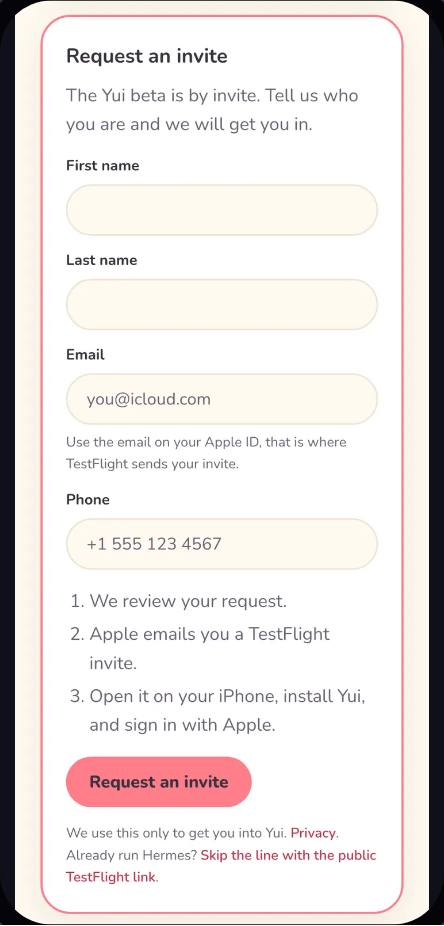
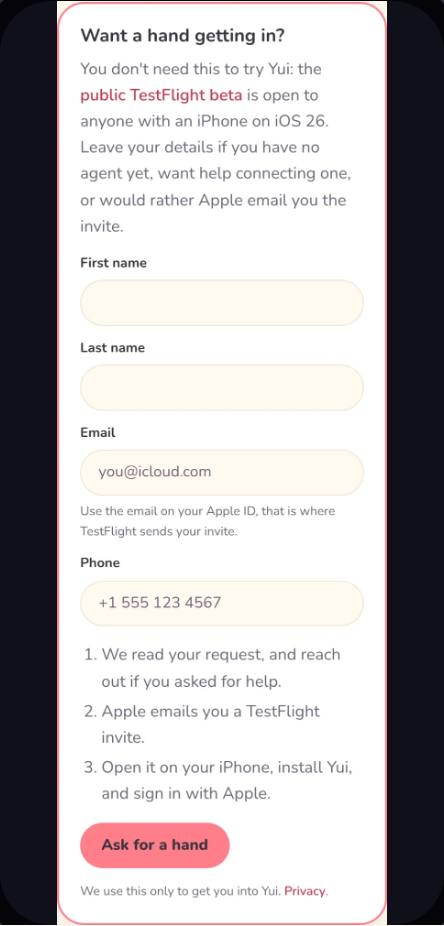
The site says it plainly: Yui is in public beta
Every call to action leads with the public TestFlight beta. The band at the
bottom of every page is "Get the public beta" with Connect your agent, the home
page eyebrow says Public beta on TestFlight, and Get Yui says anyone with an
iPhone on iOS 26 can join.

The invite form stays, renamed Ask for a hand: for people with no agent yet,
who want help connecting one, or who would rather Apple email them the
invite. No more "the beta is by invite" or "skip the line". Same fields, same
backend. Privacy, See it (new screenshots and share card), the ship log, the
roadmap (the planned private beta is done: the public link replaced it) and
the business docs say the same.

diff --git a/site/app/components/InviteRequest.js b/site/app/components/InviteRequest.js
@@ -3,8 +3,9 @@ import { useState } from "react";
 import links from "../../content/links.json";
 import { savedUtm, trackCta } from "../../lib/track.mjs";
 
-// Request an invite (SITE-26). Replaces the waitlist: the row lands in yui_invites as requested,
-// Chris reviews it, and Apple sends the TestFlight email to the address given here.
+// Ask for a hand (SITE-26). The beta is public on TestFlight, so this form is the other way in: for people
+// with no agent yet, who want help connecting one, or who want the invite by email. The row lands in
+// yui_invites as requested, Chris reviews it, and Apple sends the TestFlight email to the address given here.
 export default function InviteRequest({ source = "home" }) {
   const [state, setState] = useState("idle");
   const [error, setError] = useState("");
@@ -33,7 +34,8 @@ export default function InviteRequest({ source = "home" }) {
     return (
       <div id="invite" className="card invite" role="status">
         <h3>Request in. Thank you!</h3>
-        <p>We read every request. When you are in, Apple emails you a TestFlight invite. Open it on your iPhone, install Yui, and sign in with Apple.</p>
+        <p>We read every request. Apple emails a TestFlight invite to the address you gave. You don&apos;t have to wait for it: the public beta is open now.</p>
+        {links.testflight && <p style={{ marginTop: 12 }}><a className="btn" href={links.testflight} onClick={() => trackCta("testflight", `${source}:invite-done`)}>Get the TestFlight beta</a></p>}
       </div>
     );
   }
@@ -41,8 +43,13 @@ export default function InviteRequest({ source = "home" }) {
   return (
     <form id="invite" className="card invite" onSubmit={submit}>
       <span id="waitlist" />
-      <h3>Request an invite</h3>
-      <p>The Yui beta is by invite. Tell us who you are and we will get you in.</p>
+      <h3>Want a hand getting in?</h3>
+      <p>
+        You don&apos;t need this to try Yui: the{" "}
+        {links.testflight ? <a href={links.testflight} onClick={() => trackCta("testflight", `${source}:invite`)}>public TestFlight beta</a> : "public TestFlight beta"}{" "}
+        is open to anyone with an iPhone on iOS 26. Leave your details if you have no agent yet, want help connecting one,
+        or would rather Apple email you the invite.
+      </p>
       <div className="inv-grid">
         <label>First name<input name="first_name" required autoComplete="given-name" maxLength={80} /></label>
         <label>Last name<input name="last_name" required autoComplete="family-name" maxLength={80} /></label>
@@ -55,15 +62,14 @@ export default function InviteRequest({ source = "home" }) {
         <input name="website" tabIndex={-1} autoComplete="off" aria-hidden="true" className="wl-hp" />
       </div>
       <ol className="inv-next">
-        <li>We review your request.</li>
+        <li>We read your request, and reach out if you asked for help.</li>
         <li>Apple emails you a TestFlight invite.</li>
         <li>Open it on your iPhone, install Yui, and sign in with Apple.</li>
       </ol>
-      <button className="btn" disabled={state === "sending"}>{state === "sending" ? "Sending..." : "Request an invite"}</button>
+      <button className="btn" disabled={state === "sending"}>{state === "sending" ? "Sending..." : "Ask for a hand"}</button>
       {error && <p className="wl-err">{error}</p>}
       <p className="inv-fine">
         We use this only to get you into Yui. <a href="/privacy#invites">Privacy</a>.
-        {links.testflight && <> Already run Hermes? <a href={links.testflight} onClick={() => trackCta("testflight", `${source}:invite`)}>Skip the line with the public TestFlight link</a>.</>}
       </p>
     </form>
   );

diff --git a/site/app/privacy/page.js b/site/app/privacy/page.js
@@ -33,17 +33,18 @@ export default function Privacy() {
     <>
       <div className="eyebrow">Privacy</div>
       <h1>What Yui keeps, and how to delete it.</h1>
-      <p style={{ color: "var(--muted)" }}>Last updated September 24, 2026.</p>
+      <p style={{ color: "var(--muted)" }}>Last updated September 26, 2026.</p>
 
       <h2 id="invites">Invites</h2>
       <p>
-        Yui&apos;s beta is by invite. When you ask for one, or we invite you, we store your first and last name, the
+        Yui&apos;s beta is public on TestFlight. You can also ask us for an invite, or for a hand getting set up, with the
+        form at the bottom of each page. When you do, or we invite you, we store your first and last name, the
         email you give us (the one on your Apple ID, because that is where TestFlight sends the invite), your phone
         number, which page and link brought you, your browser type, and where your invite stands: requested, approved,
         invited, claimed or declined. Nobody but Yui&apos;s server can read that table.
       </p>
       <ul>
-        <li>We use it only to review your request and get you into Yui. Your phone number is for reaching you about your invite, never for marketing.</li>
+        <li>We use it only to review your request and get you into Yui. Your phone number is for reaching you about your request, never for marketing.</li>
         <li>When we approve you, we send your name and email to Apple, which adds you to Yui&apos;s TestFlight beta and emails you the invite. We send no email of our own.</li>
         <li>Your invite also carries a one-time code for a link like yuigui.com/i/&hellip;. We keep only a scrambled (hashed) form of it. It works once.</li>
         <li>When you first sign in to the app, Yui matches your invite by that email, or by the code if you hid your email, and links it to your account.</li>
@@ -151,7 +152,7 @@ export default function Privacy() {
       <h2>This website</h2>
       <p>
         yuigui.com uses Google Analytics to count visits. It never sees an invite code: an invite link is counted as
-        yuigui.com/i/ without it. The request-an-invite form writes to the <code>yui_invites</code> table, described under Invites above. The old
+        yuigui.com/i/ without it. The form at the bottom of each page writes to the <code>yui_invites</code> table, described under Invites above. The old
         waitlist (<code>yui_waitlist</code>) is closed, and its entries became invite requests. To be removed, email us.
       </p>
     </>

diff --git a/site/app/components/GetYui.js b/site/app/components/GetYui.js
@@ -7,7 +7,7 @@ import { keepUtm, trackCta } from "../../lib/track.mjs";
 import CtaLink from "./CtaLink";
 import InviteRequest from "./InviteRequest";
 
-// The ways in, at the bottom of every page: the beta, the code, lending your agent (SITE-24), requesting an invite (SITE-26).
+// The ways in, at the bottom of every page: the public beta, the code, lending your agent (SITE-24), and asking for a hand (SITE-26).
 export default function GetYui() {
   const where = usePathname() || "/";
   useEffect(keepUtm, []);
@@ -16,11 +16,14 @@ export default function GetYui() {
       <h2 id="getyui-h">Try Yui, or help build it</h2>
       <div className="getyui-grid">
         <div className="card">
-          <h3>Already run Hermes?</h3>
+          <h3>Get the public beta</h3>
           {links.testflight ? (
             <>
-              <p>Install Yui from the public TestFlight link and pair it with Hermes on your own computer. New to agents? Request an invite below.</p>
-              <CtaLink cta="testflight" where={where} href={links.testflight}>Get the TestFlight beta</CtaLink>
+              <p>Yui is in public beta on TestFlight for iPhone on iOS 26. Install it, then connect the agent you already run: Hermes, OpenClaw, Claude Code, a model you run, or anything behind a webhook.</p>
+              <div className="cta">
+                <CtaLink cta="testflight" where={where} href={links.testflight}>Get the TestFlight beta</CtaLink>
+                <Link className="btn soft" href="/start" onClick={() => trackCta("start", where)}>Connect your agent</Link>
+              </div>
             </>
           ) : (
             <p>The public beta is waiting on Apple&rsquo;s review. It will need Hermes running on your own computer. Request an invite below and we will get you in.</p>

diff --git a/site/app/start/page.js b/site/app/start/page.js
@@ -105,11 +105,11 @@ export default function Start() {
             {links.testflight ? (
               <>
                 <p>
-                  Yui is in public beta on TestFlight, listed as <strong>Yui Gui</strong>. You need an iPhone on iOS 26. Open the
-                  invite, install, then sign in with Apple.
+                  Yui is in public beta on TestFlight, listed as <strong>Yui Gui</strong>. Anyone with an iPhone on iOS 26 can join:
+                  open the public link, install, then sign in with Apple.
                 </p>
-                <p><a className="btn start-tf" href={links.testflight}>Open the TestFlight invite</a></p>
-                <p>No Hermes yet, or want us to set you up? <a href="#invite">Request an invite</a> at the bottom of this page.</p>
+                <p><a className="btn start-tf" href={links.testflight}>Get the TestFlight beta</a></p>
+                <p>No agent yet, or want us to set you up? <a href="#invite">Ask for a hand</a> at the bottom of this page.</p>
               </>
             ) : (
               <p>The iPhone beta is waiting on Apple&rsquo;s review. Request an invite at the bottom of this page and we will get you in.</p>

diff --git a/site/app/page.js b/site/app/page.js
@@ -51,7 +51,7 @@ export default function Home() {
     <>
       <section className="hero">
         <div>
-          <div className="eyebrow">Built in public | open source</div>
+          <div className="eyebrow">Public beta on TestFlight | built in public | open source</div>
           <h1>Meet Yui, a generative user interface.</h1>
           <p className="lede">
             Your agent draws the screen instead of replying in walls of text: a timer, a form, a quick choice.

diff --git a/docs/business/BIZ-3-revenue-models.md b/docs/business/BIZ-3-revenue-models.md
@@ -61,7 +61,7 @@ Each model: what it is, comparables with sources, rough numbers, pros, cons, wha
 **Pros:** the largest market (people with no agent). Predictable revenue. Matches Chris's end-state vision.
 **Cons:** the only model with real inference risk. Competes on price with $8 to $20 general chatbots that have far bigger budgets. Needs onboarding good enough that a non-technical person gets value in the first five minutes.
 **Needs built:** hosted agent runtime on the relay (Phase 4), onboarding interview and starter agents (Phase 4), accounts (done, YUI-6), usage metering per user, StoreKit 2 subscriptions and receipt validation, a plain usage meter screen, spend caps.
-**When:** Phase 4 to 6 (Feb to Jun 2027). Price only after the private beta measures real per-user cost.
+**When:** Phase 4 to 6 (Feb to Jun 2027). Price only after the beta measures real per-user cost.
 
 ### Model B | Usage credits for images, voice and model calls
 
@@ -137,7 +137,7 @@ The relay connection for a user's own self-hosted agent stays free (principle 1)
 **Pros:** the Nabu Casa model is the closest match to Yui's values: the paid service funds the free core, and users pay because it is convenient, not because they are locked in. Serves the Hermes and OpenClaw crowd, the stated early adopters.
 **Cons:** hosting other people's agents means running their code and tools: security isolation, abuse handling and support load are real costs. Small market until agents go mainstream.
 **Needs built:** multi-tenant relay (Phase 5), connector enrollment, isolated agent runtime (Cloudflare Workers + Durable Objects or containers), monitoring, a status page.
-**When:** Phase 5 (Mar 2027) for the free relay; managed hosting after the private beta shows demand.
+**When:** Phase 5 (Mar 2027) for the free relay; managed hosting after the beta shows demand.
 
 ### Model F | Sponsorships and grants for the open-source project
 
@@ -161,7 +161,7 @@ The relay connection for a user's own self-hosted agent stays free (principle 1)
 - **Phase 2 (Dec 2026):** per-agent theme tokens (YUI-20). Feeds C.
 - **Phase 3 (Jan 2027):** key vault (BYO keys stay first-class on every tier), media pipeline (YUI-21), StoreKit consumables, credit ledger, per-action price display. Unlocks B.
 - **Phase 4 (Feb 2027):** hosted default agent, onboarding interview, starter agents, usage metering, connector library v0. Unlocks A, starts D.
-- **Phase 5 (Mar 2027):** multi-tenant relay, connector enrollment for other people's Hermes, private beta that measures per-user cost. Unlocks E and prices A.
+- **Phase 5 (Mar 2027):** multi-tenant relay, connector enrollment for other people's Hermes, a beta that measures per-user cost. Unlocks E and prices A.
 - **Phase 6 (Apr to Jun 2027):** StoreKit subscriptions, on-device Foundation Models to cut cost, public launch. Ships A.
 - **After launch:** roles, admin, audit log, org billing. Ships D.
 - **Any time:** public repos, license, sponsors page, grant applications. F.

diff --git a/site/content/business/BIZ-3-revenue-models.md b/site/content/business/BIZ-3-revenue-models.md
@@ -61,7 +61,7 @@ Each model: what it is, comparables with sources, rough numbers, pros, cons, wha
 **Pros:** the largest market (people with no agent). Predictable revenue. Matches Chris's end-state vision.
 **Cons:** the only model with real inference risk. Competes on price with $8 to $20 general chatbots that have far bigger budgets. Needs onboarding good enough that a non-technical person gets value in the first five minutes.
 **Needs built:** hosted agent runtime on the relay (Phase 4), onboarding interview and starter agents (Phase 4), accounts (done, YUI-6), usage metering per user, StoreKit 2 subscriptions and receipt validation, a plain usage meter screen, spend caps.
-**When:** Phase 4 to 6 (Feb to Jun 2027). Price only after the private beta measures real per-user cost.
+**When:** Phase 4 to 6 (Feb to Jun 2027). Price only after the beta measures real per-user cost.
 
 ### Model B | Usage credits for images, voice and model calls
 
@@ -137,7 +137,7 @@ The relay connection for a user's own self-hosted agent stays free (principle 1)
 **Pros:** the Nabu Casa model is the closest match to Yui's values: the paid service funds the free core, and users pay because it is convenient, not because they are locked in. Serves the Hermes and OpenClaw crowd, the stated early adopters.
 **Cons:** hosting other people's agents means running their code and tools: security isolation, abuse handling and support load are real costs. Small market until agents go mainstream.
 **Needs built:** multi-tenant relay (Phase 5), connector enrollment, isolated agent runtime (Cloudflare Workers + Durable Objects or containers), monitoring, a status page.
-**When:** Phase 5 (Mar 2027) for the free relay; managed hosting after the private beta shows demand.
+**When:** Phase 5 (Mar 2027) for the free relay; managed hosting after the beta shows demand.
 
 ### Model F | Sponsorships and grants for the open-source project
 
@@ -161,7 +161,7 @@ The relay connection for a user's own self-hosted agent stays free (principle 1)
 - **Phase 2 (Dec 2026):** per-agent theme tokens (YUI-20). Feeds C.
 - **Phase 3 (Jan 2027):** key vault (BYO keys stay first-class on every tier), media pipeline (YUI-21), StoreKit consumables, credit ledger, per-action price display. Unlocks B.
 - **Phase 4 (Feb 2027):** hosted default agent, onboarding interview, starter agents, usage metering, connector library v0. Unlocks A, starts D.
-- **Phase 5 (Mar 2027):** multi-tenant relay, connector enrollment for other people's Hermes, private beta that measures per-user cost. Unlocks E and prices A.
+- **Phase 5 (Mar 2027):** multi-tenant relay, connector enrollment for other people's Hermes, a beta that measures per-user cost. Unlocks E and prices A.
 - **Phase 6 (Apr to Jun 2027):** StoreKit subscriptions, on-device Foundation Models to cut cost, public launch. Ships A.
 - **After launch:** roles, admin, audit log, org billing. Ships D.
 - **Any time:** public repos, license, sponsors page, grant applications. F.

diff --git a/ROADMAP.md b/ROADMAP.md
@@ -133,7 +133,7 @@ Work ships in epics: a set of cards that together make one release worth trying.
 
 - YUI-56 (built, in build 61): invites end to end, from request to first sign-in. It waits on one live test with Apple's TestFlight email before it counts as done.
 - YUI-57: default agents per invite, client-safe agents only. Step 1, the spec and a playground mock, shipped Sep 25 ([Shared agents](/developers/agents): templates an invite carries, grants a client holds, revoke, and the client-safe rule a shared agent must pass). Step 2, YUI-95, shipped Sep 25: grants and templates in the database, `grant.py` (refuses any agent that is not client-safe), the host's sandbox check before every turn for someone who is not the owner, and a first sign-in on the simulator (the invitee finds the agent in its look with its first message; a revoke removes it). Next in the app: the owner's invite plan and the client's "Shared by" settings.
-- SITE-26 (shipped Sep 24): Request an invite replaced the waitlist on the site.
+- SITE-26 (shipped Sep 24): Request an invite replaced the waitlist on the site. Since Sep 26 it is Ask for a hand, beside the public TestFlight beta.
 
 **Done: WAR-1, the war room (shipped in build 74, Sep 25).** Screen 2 becomes a real dashboard for running Yui from Yui: a timeline of what shipped and what is queued, quick links to the site, and a reorder mode that sets board priority by dragging, with no agent turn in between (Chris, Sep 25).
 
@@ -319,7 +319,7 @@ Deliverables:
 - DONE Sep 24, OSS-1: Yui is open source (Apache-2.0), Yui Lines spec included.
 - DONE Sep 24, YUI-27: beta review prep: privacy answers, review notes, demo account, help link.
 - DONE Sep 24, YUI-22: public TestFlight link. Anyone can install Yui: https://testflight.apple.com/join/ykrYHwet
-- OPEN: the private beta of 20 to 50 technical users from the Hermes and OpenClaw communities. The public link may replace it; Chris's call.
+- DONE Sep 26: the public TestFlight beta replaced the planned private beta of 20 to 50 technical users (Chris, Sep 26: we are in public beta on TestFlight). Every call to action on the site leads with the public link; the form at the bottom of each page is now Ask for a hand, for people with no agent yet, who want help connecting one, or who want the invite by email.
 - NOT STARTED, INT-5: zero-install connect through Hermes's relay connector contract (`hermes gateway enroll`): Yui hosts the connector, the user enrolls once, their agents appear in the app.
 - DONE Sep 24, INT-2: the webhook bridge, Python and Node. Any agent that answers an HTTP POST can talk in Yui, no Hermes needed.
 - DONE Sep 24, INT-1: the OpenClaw channel plugin. An OpenClaw agent talks in Yui the way a Hermes agent does, screens and taps included.

diff --git a/site/content/ROADMAP.md b/site/content/ROADMAP.md
@@ -133,7 +133,7 @@ Work ships in epics: a set of cards that together make one release worth trying.
 
 - YUI-56 (built, in build 61): invites end to end, from request to first sign-in. It waits on one live test with Apple's TestFlight email before it counts as done.
 - YUI-57: default agents per invite, client-safe agents only. Step 1, the spec and a playground mock, shipped Sep 25 ([Shared agents](/developers/agents): templates an invite carries, grants a client holds, revoke, and the client-safe rule a shared agent must pass). Step 2, YUI-95, shipped Sep 25: grants and templates in the database, `grant.py` (refuses any agent that is not client-safe), the host's sandbox check before every turn for someone who is not the owner, and a first sign-in on the simulator (the invitee finds the agent in its look with its first message; a revoke removes it). Next in the app: the owner's invite plan and the client's "Shared by" settings.
-- SITE-26 (shipped Sep 24): Request an invite replaced the waitlist on the site.
+- SITE-26 (shipped Sep 24): Request an invite replaced the waitlist on the site. Since Sep 26 it is Ask for a hand, beside the public TestFlight beta.
 
 **Done: WAR-1, the war room (shipped in build 74, Sep 25).** Screen 2 becomes a real dashboard for running Yui from Yui: a timeline of what shipped and what is queued, quick links to the site, and a reorder mode that sets board priority by dragging, with no agent turn in between (Chris, Sep 25).
 
@@ -319,7 +319,7 @@ Deliverables:
 - DONE Sep 24, OSS-1: Yui is open source (Apache-2.0), Yui Lines spec included.
 - DONE Sep 24, YUI-27: beta review prep: privacy answers, review notes, demo account, help link.
 - DONE Sep 24, YUI-22: public TestFlight link. Anyone can install Yui: https://testflight.apple.com/join/ykrYHwet
-- OPEN: the private beta of 20 to 50 technical users from the Hermes and OpenClaw communities. The public link may replace it; Chris's call.
+- DONE Sep 26: the public TestFlight beta replaced the planned private beta of 20 to 50 technical users (Chris, Sep 26: we are in public beta on TestFlight). Every call to action on the site leads with the public link; the form at the bottom of each page is now Ask for a hand, for people with no agent yet, who want help connecting one, or who want the invite by email.
 - NOT STARTED, INT-5: zero-install connect through Hermes's relay connector contract (`hermes gateway enroll`): Yui hosts the connector, the user enrolls once, their agents appear in the app.
 - DONE Sep 24, INT-2: the webhook bridge, Python and Node. Any agent that answers an HTTP POST can talk in Yui, no Hermes needed.
 - DONE Sep 24, INT-1: the OpenClaw channel plugin. An OpenClaw agent talks in Yui the way a Hermes agent does, screens and taps included.

diff --git a/docs/business/BIZ-1-marketing-positioning.md b/docs/business/BIZ-1-marketing-positioning.md
@@ -14,7 +14,7 @@ Companion docs: [BIZ-3 revenue models and mission principles](https://www.yuigui
 - **What sets it apart:** your agent draws native iPhone screens, not web pages in a frame, and Hermes agents get a screen for the first time. Phone apps for self-hosted agents already exist (OpenClaw's own app, Hermex); agent-drawn native screens do not.
 - **What we are not:** another AI chatbot. Chat is the doorway, not the product.
 - **The promise we keep:** free and open source for anyone who brings their own agent. It genuinely helps, no matter who you are.
-- **Launch path:** private beta with Hermes users, open source launch, Show HN and Product Hunt, then the App Store. Each step has a gate we must pass before the next.
+- **Launch path:** a public TestFlight beta, Hermes users first (it replaced the planned private beta on Sep 26), open source launch, Show HN and Product Hunt, then the App Store. Each step has a gate we must pass before the next.
 
 ## Mission guardrail
 
@@ -95,7 +95,7 @@ Chris runs a small fleet of Hermes agents. One of them, Arnold, is his trainer. 
 
 **The story for them (Sep 26 2026):** the super app they would build if they could. They ask for a workout timer, a food log and a way to book client calls, and the agent draws each piece on the fly from Yui's native presets. Today that is three apps or a developer. The benchmark's ten screens are exactly that day: 338 tokens to draw, 21 to reopen once saved. Keep the status honest next to it: the starter agent they need is designed, not built.
 
-**What we do now:** let them request an invite and watch the build. Do not market to them yet.
+**What we do now:** point them to the public beta, and to Ask for a hand if they have no agent yet, and let them watch the build. Do not market to them yet.
 
 ### Who we are not chasing
 
@@ -222,7 +222,9 @@ Screenshot shot list for the site, App Store and launch posts (owner: SITE-3):
 
 Four stages. Each has a gate. We do not move on because a date arrived; we move on because the gate is met.
 
-### Stage 1 | Private beta (now to Phase 1 end, late Nov 2026)
+### Stage 1 | Beta (now to Phase 1 end, late Nov 2026)
+
+Update Sep 26 2026: the beta is public on TestFlight, open to anyone. The hand-picked users below are outreach, not the only way in.
 
 - **Who:** Chris's fleet, then 10 to 20 Hermes users invited by hand from public channels (BIZ-2 builds the list, Chris approves every message).
 - **What they get:** TestFlight plus the Hermes `yui` plugin (YUI-7).

diff --git a/site/content/business/BIZ-1-marketing-positioning.md b/site/content/business/BIZ-1-marketing-positioning.md
@@ -14,7 +14,7 @@ Companion docs: [BIZ-3 revenue models and mission principles](https://www.yuigui
 - **What sets it apart:** your agent draws native iPhone screens, not web pages in a frame, and Hermes agents get a screen for the first time. Phone apps for self-hosted agents already exist (OpenClaw's own app, Hermex); agent-drawn native screens do not.
 - **What we are not:** another AI chatbot. Chat is the doorway, not the product.
 - **The promise we keep:** free and open source for anyone who brings their own agent. It genuinely helps, no matter who you are.
-- **Launch path:** private beta with Hermes users, open source launch, Show HN and Product Hunt, then the App Store. Each step has a gate we must pass before the next.
+- **Launch path:** a public TestFlight beta, Hermes users first (it replaced the planned private beta on Sep 26), open source launch, Show HN and Product Hunt, then the App Store. Each step has a gate we must pass before the next.
 
 ## Mission guardrail
 
@@ -95,7 +95,7 @@ Chris runs a small fleet of Hermes agents. One of them, Arnold, is his trainer. 
 
 **The story for them (Sep 26 2026):** the super app they would build if they could. They ask for a workout timer, a food log and a way to book client calls, and the agent draws each piece on the fly from Yui's native presets. Today that is three apps or a developer. The benchmark's ten screens are exactly that day: 338 tokens to draw, 21 to reopen once saved. Keep the status honest next to it: the starter agent they need is designed, not built.
 
-**What we do now:** let them request an invite and watch the build. Do not market to them yet.
+**What we do now:** point them to the public beta, and to Ask for a hand if they have no agent yet, and let them watch the build. Do not market to them yet.
 
 ### Who we are not chasing
 
@@ -222,7 +222,9 @@ Screenshot shot list for the site, App Store and launch posts (owner: SITE-3):
 
 Four stages. Each has a gate. We do not move on because a date arrived; we move on because the gate is met.
 
-### Stage 1 | Private beta (now to Phase 1 end, late Nov 2026)
+### Stage 1 | Beta (now to Phase 1 end, late Nov 2026)
+
+Update Sep 26 2026: the beta is public on TestFlight, open to anyone. The hand-picked users below are outreach, not the only way in.
 
 - **Who:** Chris's fleet, then 10 to 20 Hermes users invited by hand from public channels (BIZ-2 builds the list, Chris approves every message).
 - **What they get:** TestFlight plus the Hermes `yui` plugin (YUI-7).

diff --git a/docs/business/beta-list.md b/docs/business/beta-list.md
@@ -160,7 +160,7 @@ Posted as a reply in the thread they came from, or as a pinned GitHub issue that
 
 ## Part 4 | How testers get in, and how we keep track
 
-- **Door:** the public TestFlight link. Anyone who already runs Hermes can use it. Everyone else asks through Request an invite on yuigui.com (SITE-26, Sep 24), and Chris approves each one.
+- **Door:** the public TestFlight link, open to anyone with an iPhone on iOS 26. People who want a hand (no agent yet, help connecting one, or the invite by email) use Ask for a hand on yuigui.com (SITE-26), and Chris reads each one. This list is for outreach, not for letting people in.
 - **Where they come from:** each post uses the UTM scheme in `docs/UTM-LINKS.md` on the yuigui.com/start link, so we can count which venue sent people without tracking anyone. We also ask once, in the welcome note, where they heard about it.
 - **Count:** TestFlight's external group shows installs and sessions. The backend shows paired connectors. We publish only totals in the Friday update: installs, first rendered screens, issues opened, issues fixed. No names, handles or emails anywhere public.
 - **Cap:** stop inviting when the active cohort hits its size in Part 1, even if a post is still getting replies. Say so in the thread.
